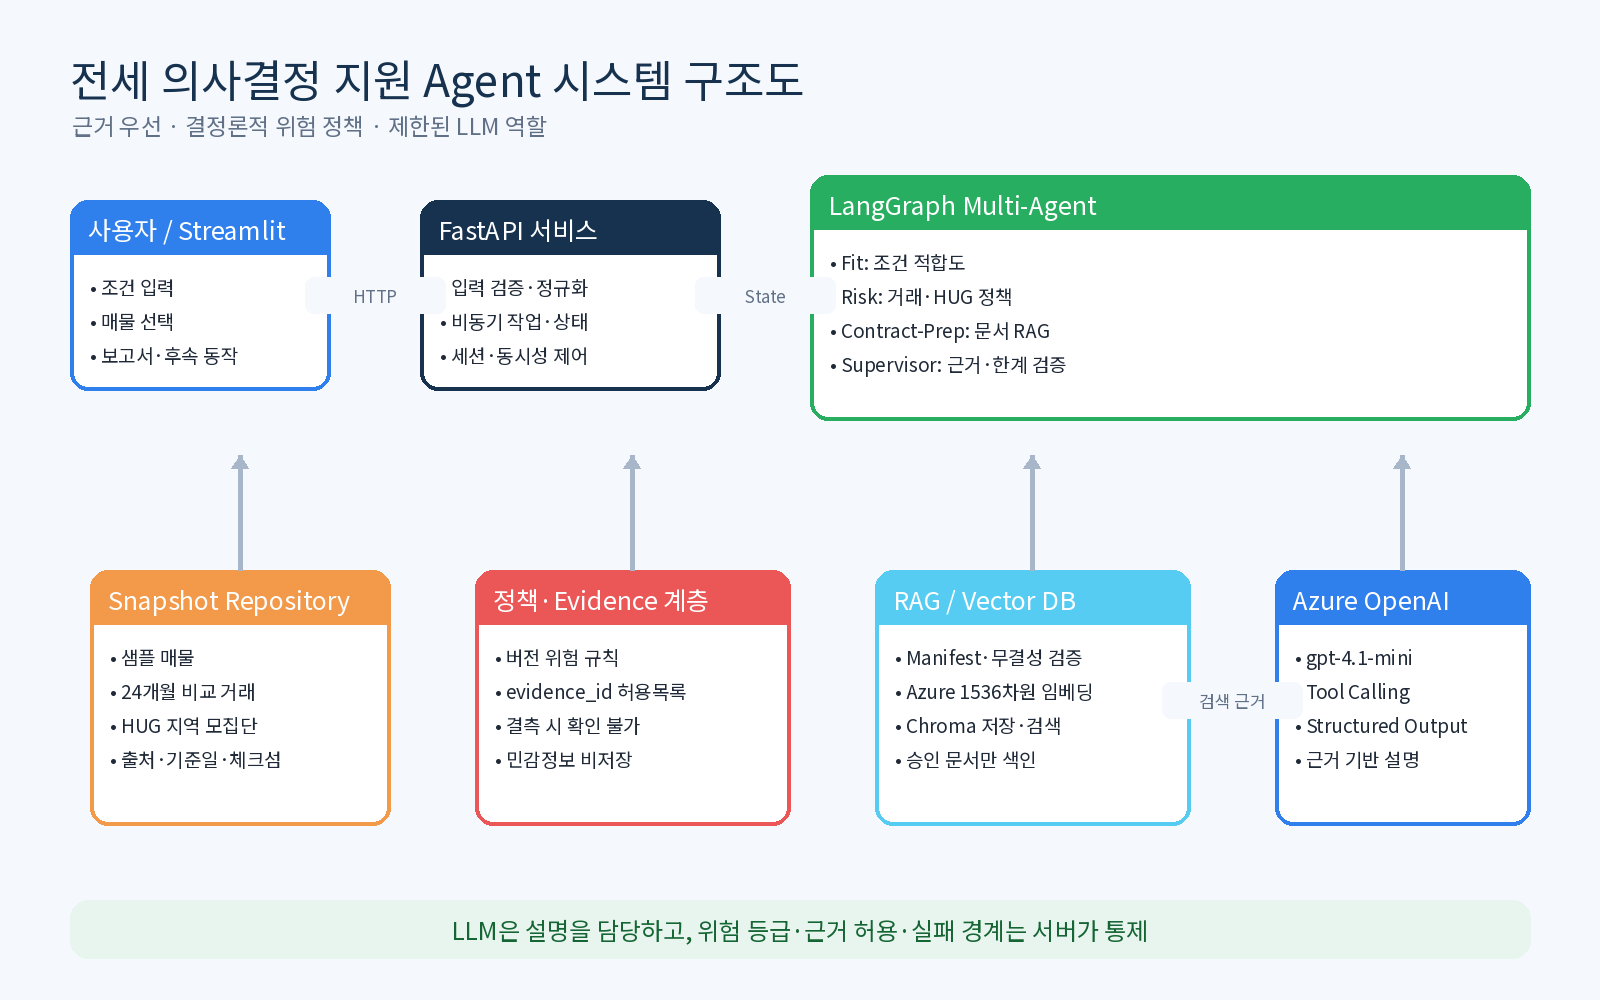
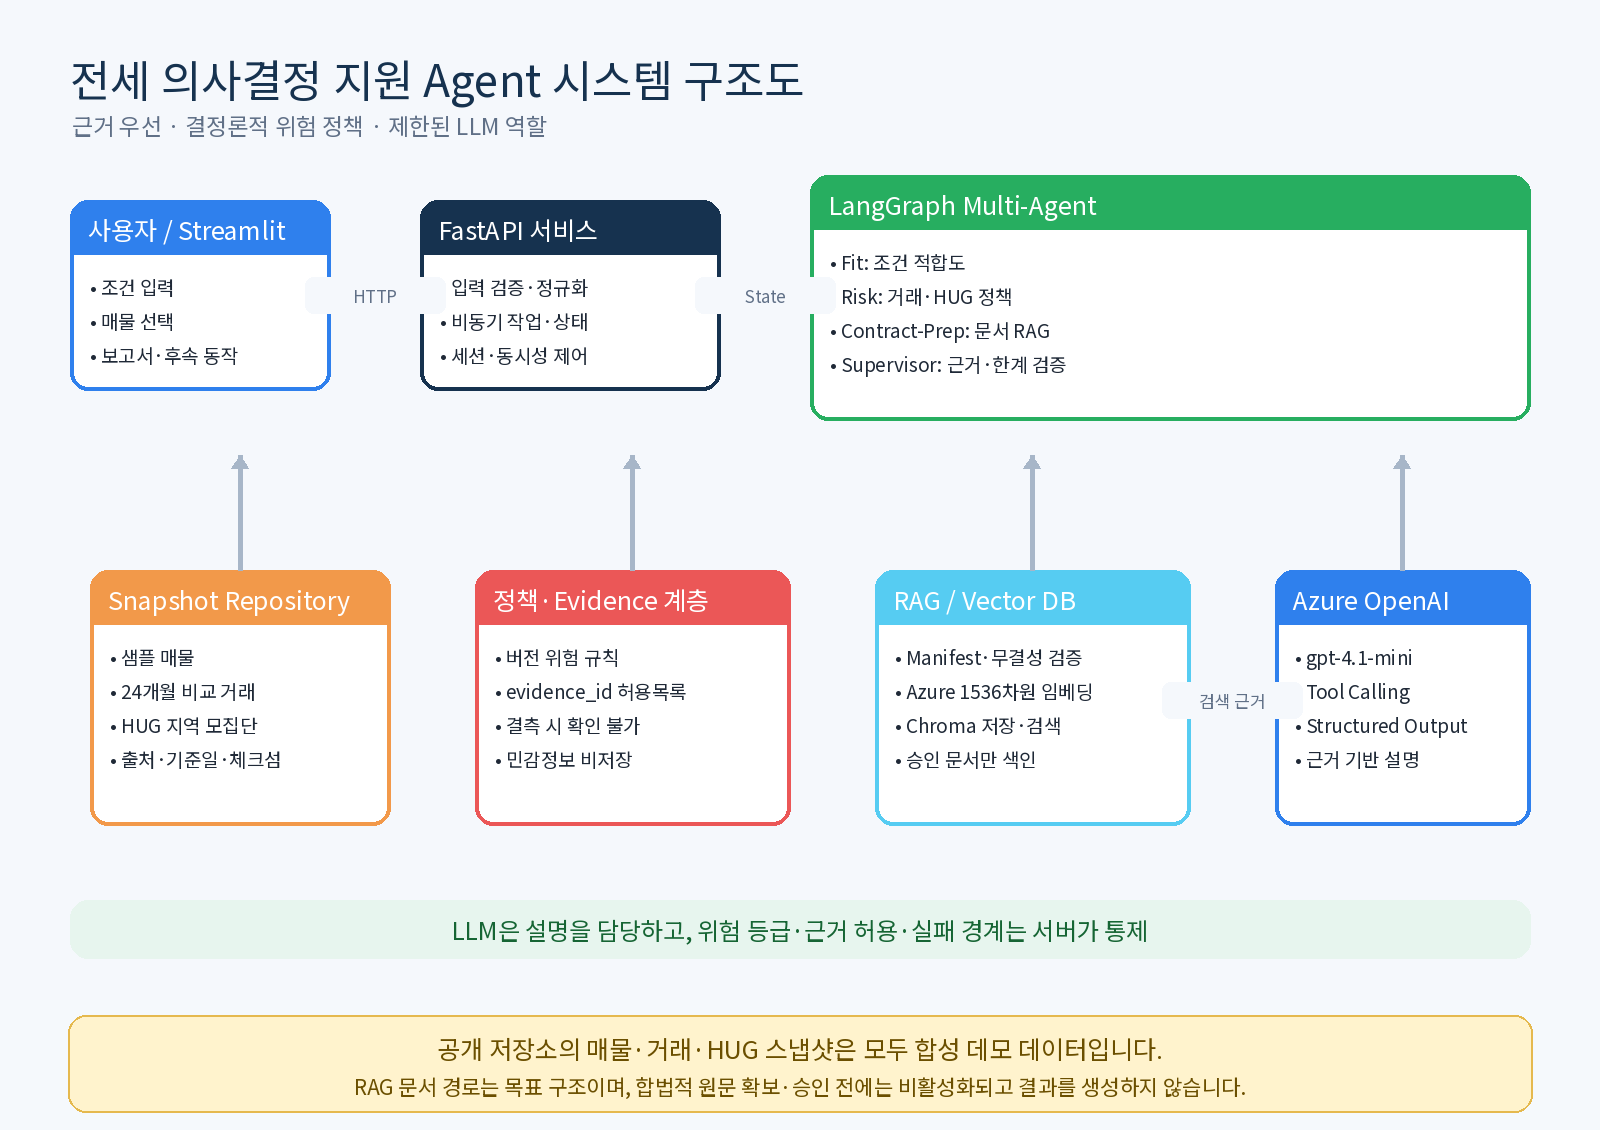
Fail closed in provider smoke receipts

diff --git a/scripts/provider_smoke.py b/scripts/provider_smoke.py
@@ -45,12 +45,15 @@ def main() -> None:
         if result["ids"] != [["smoke-document"]]:
             raise RuntimeError("Chroma persistence/query smoke failed")
 
+    presentation_valid = bool(presentation.presentation.summary)
+    evidence_bound = presentation.presentation.evidence_ids == (evidence_id,)
+    status = "PASS" if presentation_valid and evidence_bound else "FAIL"
     receipt = {
-        "status": "PASS",
+        "status": status,
         "profile": "azure-openai-chroma-smoke-v1",
         "chat": {
-            "presentation_valid": bool(presentation.presentation.summary),
-            "evidence_bound": presentation.presentation.evidence_ids == (evidence_id,),
+            "presentation_valid": presentation_valid,
+            "evidence_bound": evidence_bound,
         },
         "embedding": {"dimension": len(vector), "non_empty": True},
         "chroma": {"persist_reopen_query": "PASS", "count": 1},
@@ -60,6 +63,8 @@ def main() -> None:
     output.parent.mkdir(parents=True, exist_ok=True)
     output.write_text(json.dumps(receipt, ensure_ascii=False, indent=2), encoding="utf-8")
     print(json.dumps(receipt, ensure_ascii=False))
+    if status != "PASS":
+        raise SystemExit(1)
 
 
 if __name__ == "__main__":